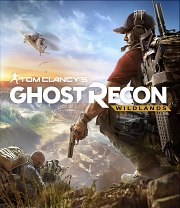
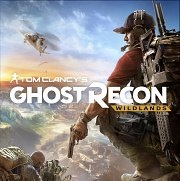
corrigiendo catalogo de inicio

diff --git a/html/index.html b/html/index.html
@@ -103,7 +103,7 @@
         </div>
       </div>
     </div>
-    <div class="ui justified fluid container segment">
+    <div class="ui justified fluid container segment seg-cat">
       <h2 class="ui header">NUESTRO CATALOGO</h2>
       <div class="ui inverted divider"></div>
       <div class="ui stackable five column grid">
@@ -128,7 +128,7 @@
                 alt=""
               />
             </a>
-            <h3 class="ui inverted header">BloodBorne</h3>
+            <h3 class="ui inverted header">Death Stranding</h3>
           </div>
         </div>
         <div class="column">
@@ -140,7 +140,7 @@
                 alt=""
               />
             </a>
-            <h3 class="ui inverted header">BloodBorne</h3>
+            <h3 class="ui inverted center aligned header">God of War</h3>
           </div>
         </div>
         <div class="column">
@@ -224,6 +224,136 @@
               <img
                 class="ui medium centered image"
                 src="../images/images-pol/quantumbreak/qbportada.jpg"
+                alt=""
+              />
+            </a>
+            <h3 class="ui inverted header">BloodBorne</h3>
+          </div>
+        </div>
+
+        <div class="column">
+          <div class="ui segment">
+            <a href="">
+              <img
+                class="ui medium centered image"
+                src="../images/images-nohemy/MarioKart8Deluxe/Caratula.jpg"
+                alt=""
+              />
+            </a>
+            <h3 class="ui inverted header">BloodBorne</h3>
+          </div>
+        </div>
+
+        <div class="column">
+          <div class="ui segment">
+            <a href="">
+              <img
+                class="ui medium centered image"
+                src="../images/images-nohemy/SmashBros/Caratula Super Smash Bros Ultimate.jpg"
+                alt=""
+              />
+            </a>
+            <h3 class="ui inverted header">BloodBorne</h3>
+          </div>
+        </div>
+
+        <div class="column">
+          <div class="ui segment">
+            <a href="">
+              <img
+                class="ui medium centered image"
+                src="../images/images-nohemy/SuperMarioOdyssey/Caratula.jpg"
+                alt=""
+              />
+            </a>
+            <h3 class="ui inverted header">BloodBorne</h3>
+          </div>
+        </div>
+
+        <div class="column">
+          <div class="ui segment">
+            <a href="">
+              <img
+                class="ui medium centered image"
+                src="../images/images-nohemy/SuperMarioParty/Caratula.jpg"
+                alt=""
+              />
+            </a>
+            <h3 class="ui inverted header">BloodBorne</h3>
+          </div>
+        </div>
+
+        <div class="column">
+          <div class="ui segment">
+            <a href="">
+              <img
+                class="ui medium centered image"
+                src="../images/images-nohemy/Zelda-BreathOfTheWild/Caratula.jpg"
+                alt=""
+              />
+            </a>
+            <h3 class="ui inverted header">BloodBorne</h3>
+          </div>
+        </div>
+
+        <div class="column">
+          <div class="ui segment">
+            <a href="">
+              <img
+                class="ui medium centered image"
+                src="../images/images-will/Fortnite/fortnite-logo.jpg"
+                alt=""
+              />
+            </a>
+            <h3 class="ui inverted header">BloodBorne</h3>
+          </div>
+        </div>
+
+        <div class="column">
+          <div class="ui segment">
+            <a href="">
+              <img
+                class="ui medium centered image"
+                src="../images/images-will/Ghost/ghost-caratula.jpg"
+                alt=""
+              />
+            </a>
+            <h3 class="ui inverted header">BloodBorne</h3>
+          </div>
+        </div>
+
+        <div class="column">
+          <div class="ui segment">
+            <a href="">
+              <img
+                class="ui medium centered image"
+                src="../images/images-will/John/john-caratula.jpg"
+                alt=""
+              />
+            </a>
+            <h3 class="ui inverted header">BloodBorne</h3>
+          </div>
+        </div>
+
+        <div class="column">
+          <div class="ui segment">
+            <a href="">
+              <img
+                class="ui medium centered image"
+                src="../images/images-will/RainbowSix/rainbow-caratula.jpg"
+                alt=""
+              />
+            </a>
+            <h3 class="ui inverted header">BloodBorne</h3>
+          </div>
+        </div>
+
+        <div class="column">
+          <div class="ui segment">
+            <a href="">
+              <img
+                class="ui medium centered image"
+                src="../images/images-will/Watchdogs2/watch-caratula.jpg"
                 alt=""
               />
             </a>

diff --git a/html/GhostReconWildlands.html b/html/GhostReconWildlands.html
@@ -50,7 +50,7 @@
             <div class="info-image">
               <img
                 class="ui medium image"
-                src="../images/images-will/Ghost/ghost-caratula.jpg"
+                src="../images/images-will/Ghost/tom_clancy__039_s_ghost_recon_wildlands-logo.jpg"
                 alt=""
               />
             </div>

diff --git a/css/styles.css b/css/styles.css
@@ -75,6 +75,15 @@ p {
 .ui.stackable.five.column.grid .column .ui.segment {
   background-color: var(--primarylight);
 }
+.img-c {
+  height: 20em;
+  width: auto;
+}
+
+.ui.justified.fluid.container.segment {
+  margin-bottom: 10em;
+}
+
 /*ESTILOS PARA EL CATALOGO DE CADA CONSOLA
 COPIAR ESTA SECCION
 */
